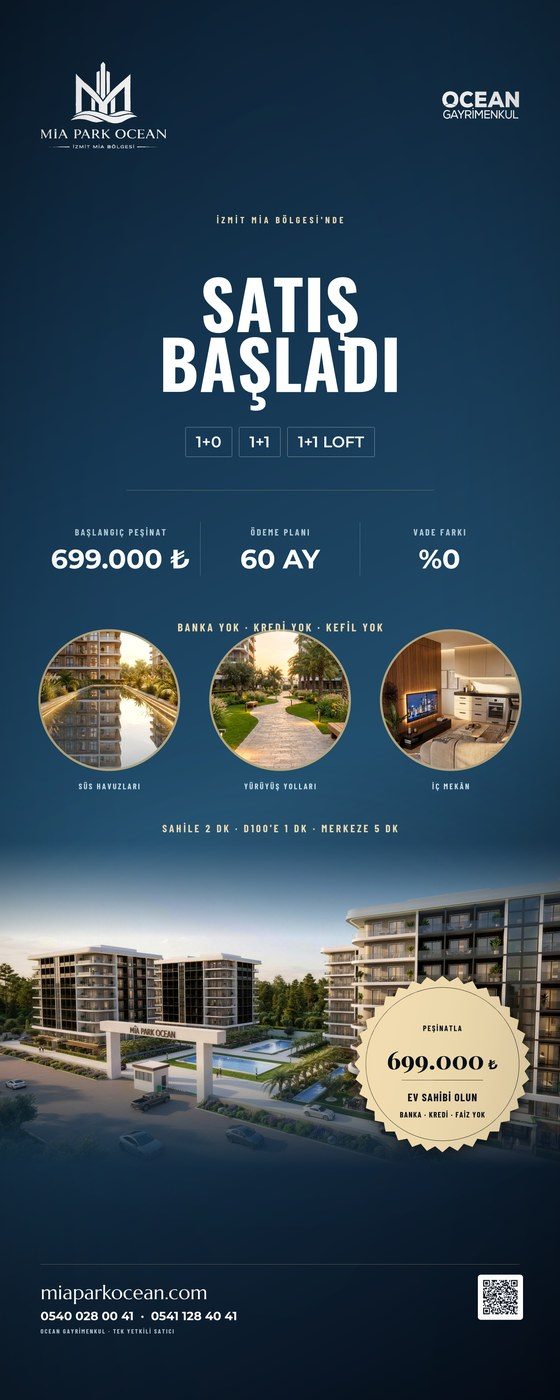
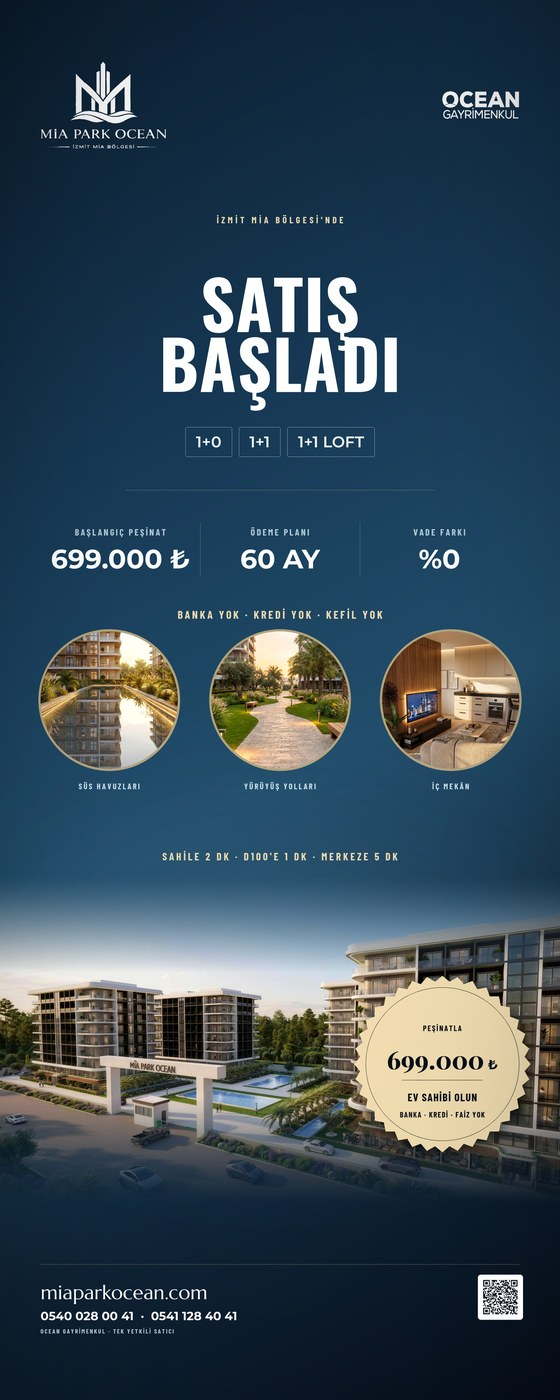
Roll-up: üç yuvarlak fotoğraf, daha büyük punto, beyaz panoda dış görünüm
- Yay yerine ÜÇ YUVARLAK FOTOĞRAF: süs havuzları, yürüyüş yolları,
  iç mekân. İnce şampanya halkayla. Mesafeler altta tek satıra indi.
- Punto bir kademe daha, oranlar korunarak: proje adı 74 mm, olgu
  değerleri 38 mm, etiketler 13 mm, şok mührü 35 mm, künye 28/17 mm.
- Beyaz panoda cephe yakın planı duvar gibi okunuyordu; gündüz dış
  görünüm karesiyle değiştirildi.
- Yuvarlakların alt yazısı ile yakınlık satırı, Oswald panosunda da
  "banka yok" satırı yuvarlakların tepesine değiyordu; araları açıldı.

Claude-Session: https://claude.ai/code/session_014vbWeo5uAXPs6zFw9SmWv2

Changed region(s): [[0.0, 0.5836, 1.0, 0.86], [0.4554, 0.43, 0.6982, 0.4607], [0.3036, 0.43, 0.425, 0.4607]]

diff --git a/scripts/build-rollup.py b/scripts/build-rollup.py
@@ -454,7 +454,7 @@ def ru_oswald() -> Image.Image:
         (0.78, (16, 38, 58)), (1.0, NIGHT),
     ], angle=0.16)
     halo(b, W_MM / 2, 1390, 640, 420, (120, 178, 214), 0.30, 2.2)
-    band(b, "entrance-gate", 1200, 470, 0.46, feather=140, bottom_fade=150)
+    band(b, "entrance-gate", 1250, 470, 0.46, feather=140, bottom_fade=150)
 
     head_logos(b, 88)
     dr = b.draw
@@ -487,14 +487,14 @@ def ru_oswald() -> Image.Image:
                         0.18, lambda s_: b.cond(s_))
 
     def note(d):
-        track(b, d, (b.p(W_MM / 2), b.p(886)), "BANKA YOK · KREDİ YOK · KEFİL YOK",
+        track(b, d, (b.p(W_MM / 2), b.p(868)), "BANKA YOK · KREDİ YOK · KEFİL YOK",
               fq, (*SAND_HI, 250), spq, "ma")
     overlay(b, note)
 
     circles(b, 1000, ["ic-mekan/17-sus-havuzu", "ic-mekan/18-yuruyus-yolu",
              "ic-mekan/05-1plus1-salon"],
             ["SÜS HAVUZLARI", "YÜRÜYÜŞ YOLLARI", "İÇ MEKÂN"])
-    near_line(b, 1174)
+    near_line(b, 1214)
 
     shock(b, 632, 1520, 126)
     vignette(b, 0.38, 2.3)
